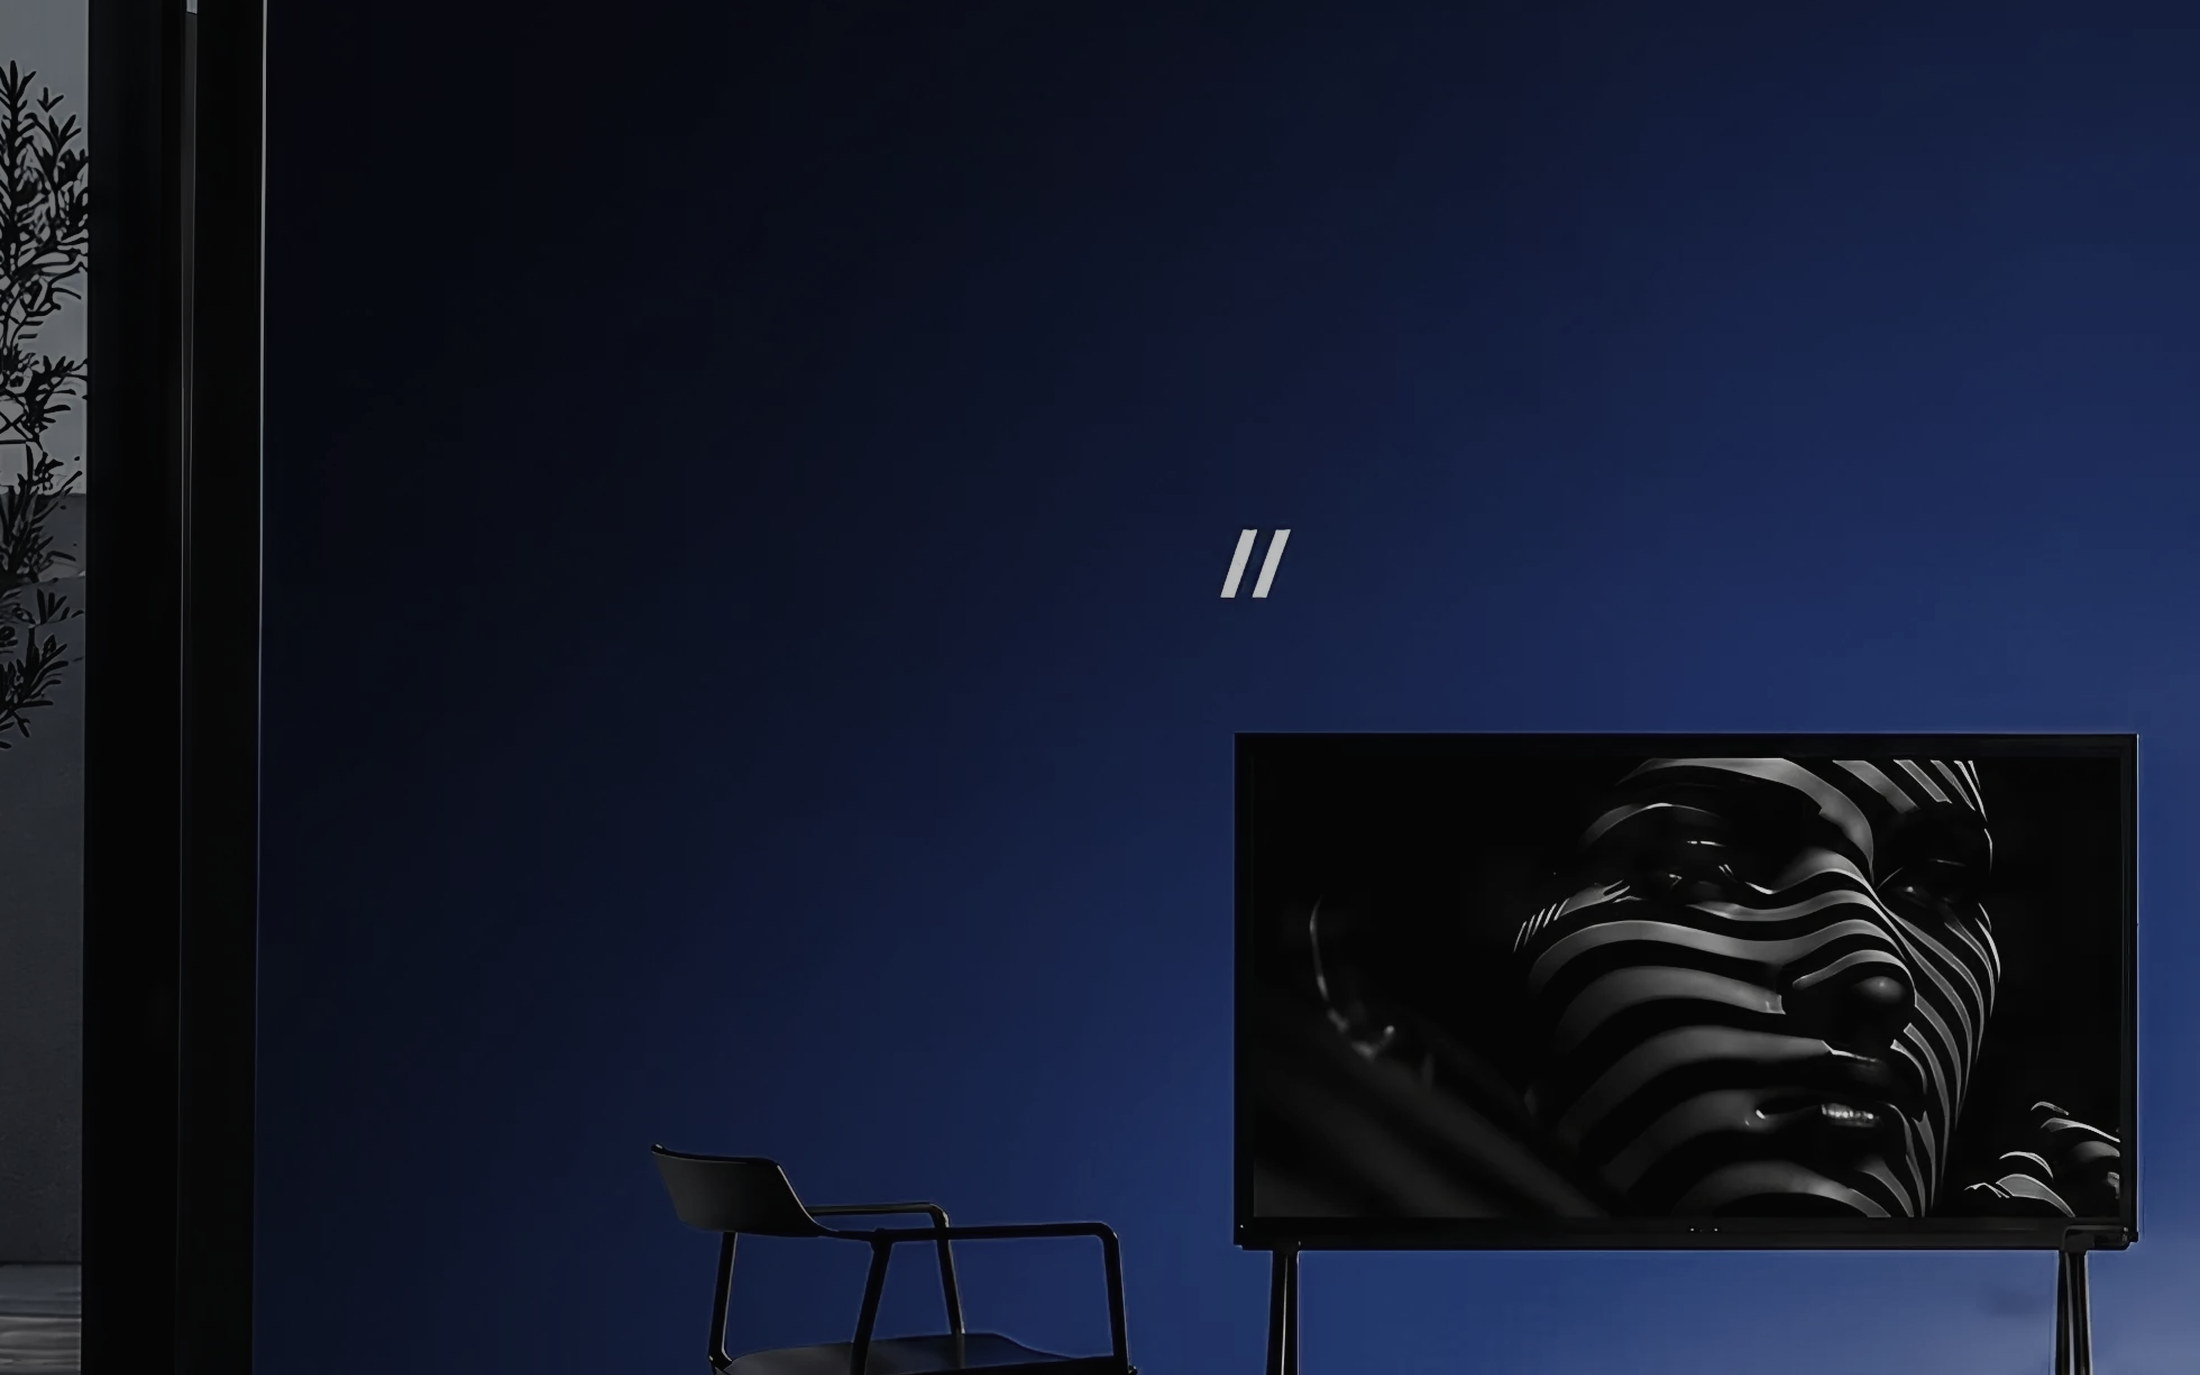
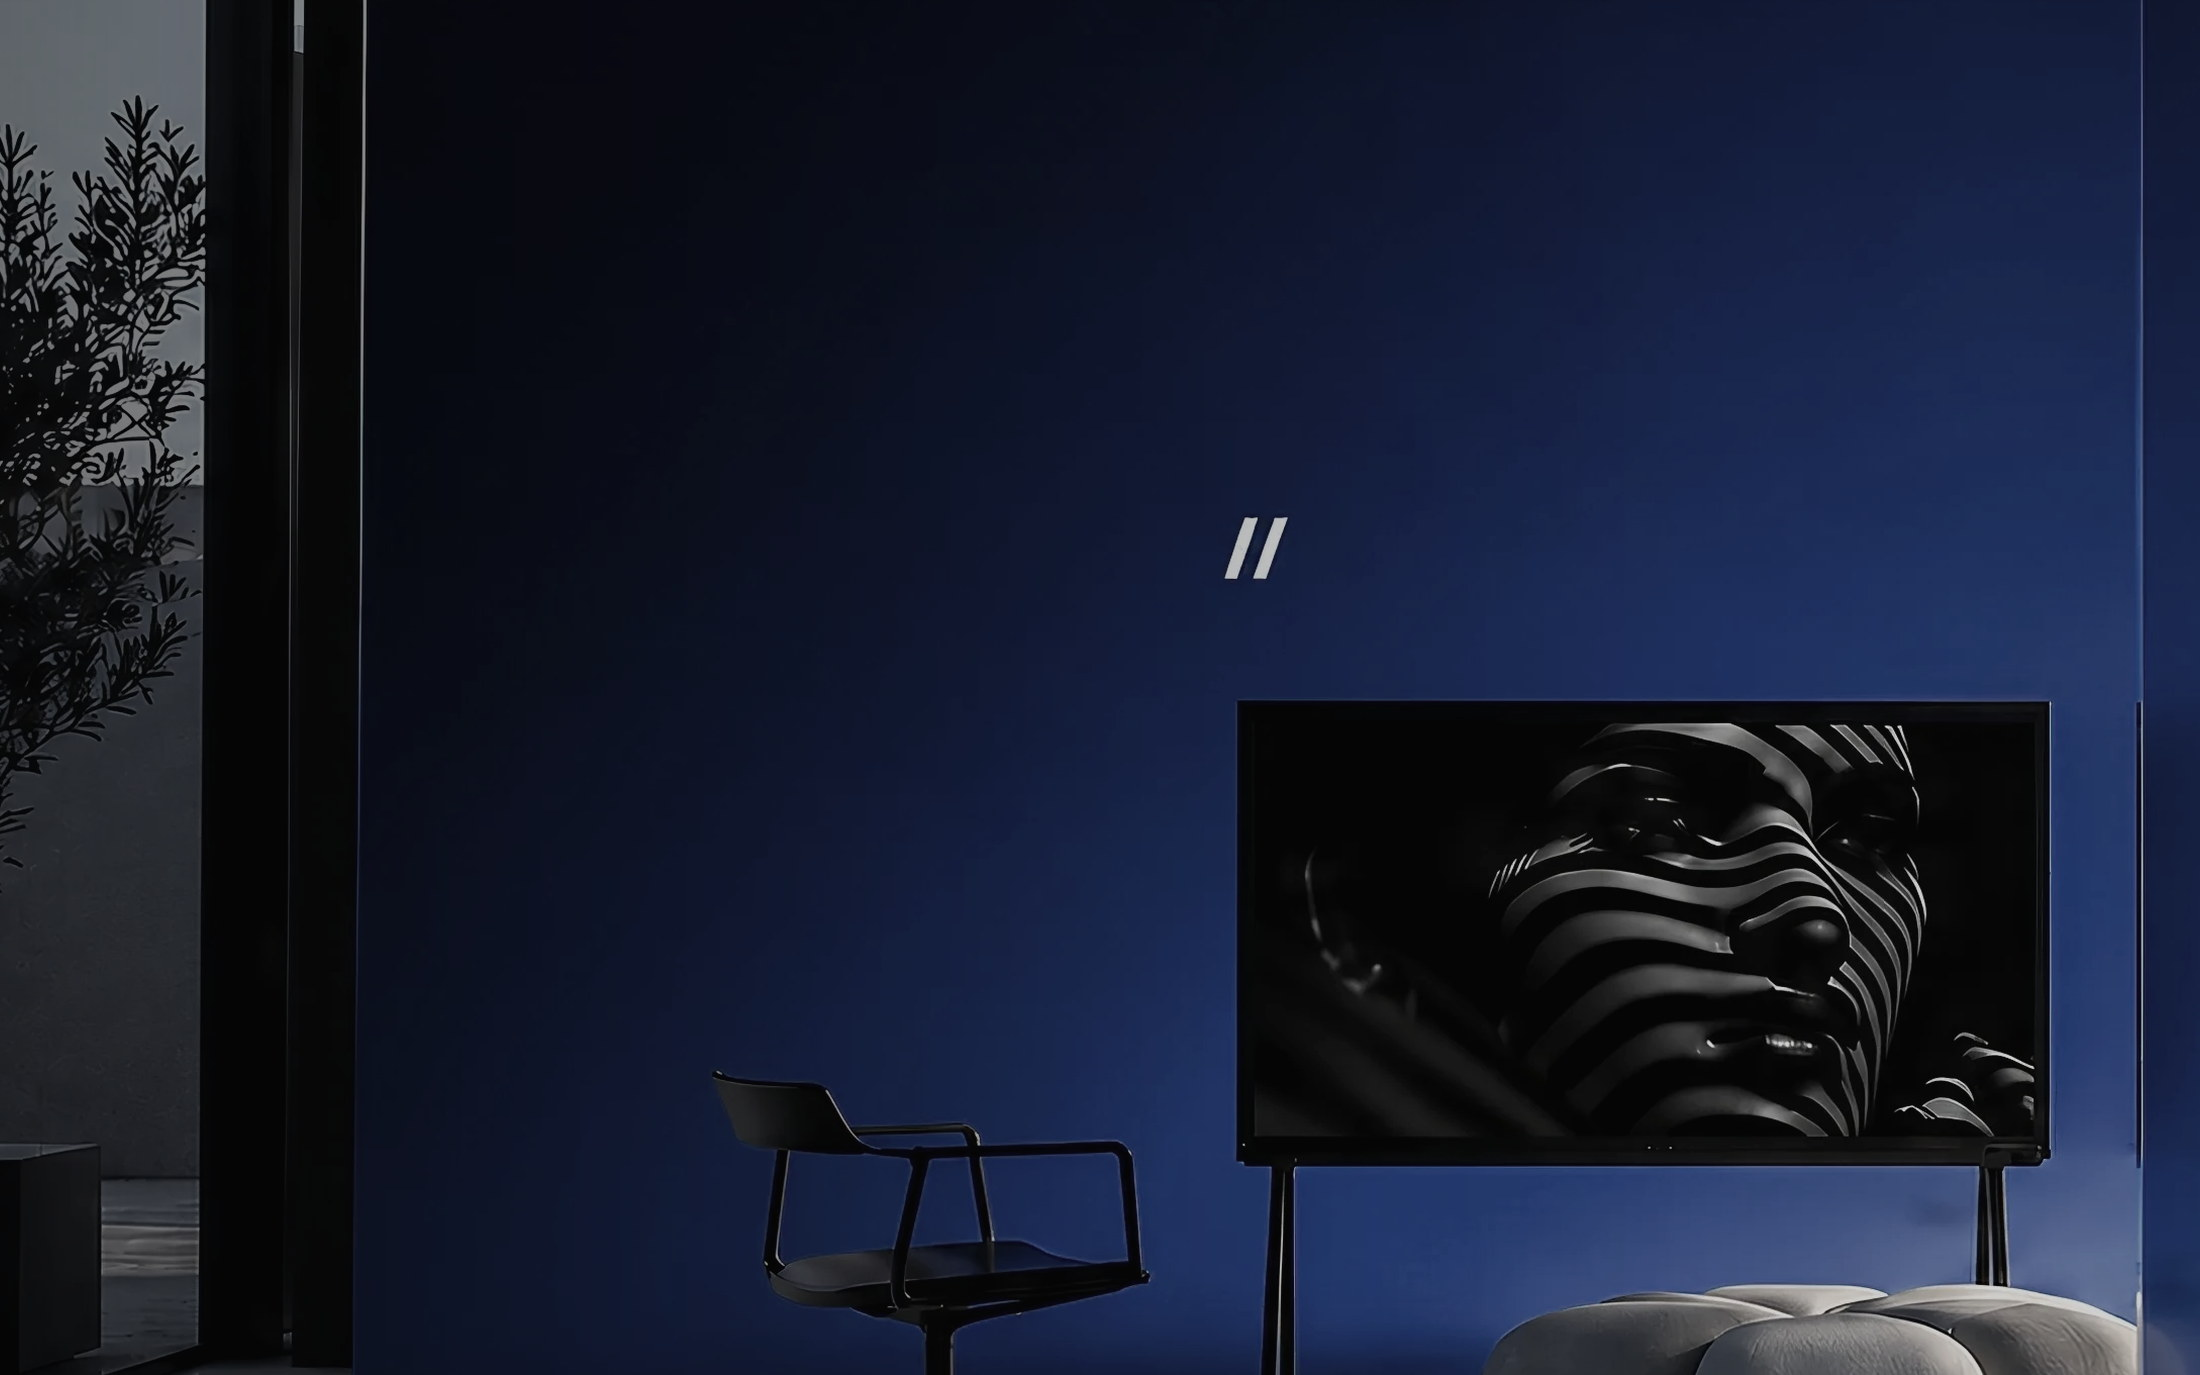
fix: the copy states status, and the 404 names itself
Four published passages explained an absence at length instead of stating a
status and stopping — the register the brief rules out. Each keeps the fact
and drops the apology:

  "It is not deployed with any organization, it has no users outside
  Recalibre... There are no results on this page because there is nothing yet
  to measure."
    -> "Status: in development. Every screen on this page runs on
       demonstration data. Performance figures will be published when the
       system has been measured in operation."

  "There is no screenshot of Contraxis on this site, and there will not be
  one until the product is further along... No interface, no data, no
  adoption figure and no deployment is shown or claimed."
    -> "Status: concept in development. The diagram above is a schematic of
       the intended architecture, not an interface. Screens will be published
       when the product reaches a working build."

  "...no client permission is owed, no agreement applies, and nothing about
  it has to be checked with a third party before it is published."
    -> "Belkofski is a company Recalibre owns outright, so the brand, the
       identity system, the digital estate and the 3D work were taken end to
       end in-house and can be published without qualification."

  "What Recalibre did for Belkofski, and when, is not recorded anywhere that
  can be verified..."
    -> "Belkofski is owned by Recalibre and is recorded as owned work rather
[…]

diff --git a/src/content/work.ts b/src/content/work.ts
@@ -133,7 +133,7 @@ export const INITIATIVES: readonly Initiative[] = [
       },
     ],
     absent:
-      'OPS is in development. It is not deployed with any organization, it has no users outside Recalibre, and every screen above carries demonstration data. There are no results on this page because there is nothing yet to measure.',
+      'Status: in development. Every screen on this page runs on demonstration data. Performance figures will be published when the system has been measured in operation.',
     cover: '/img/card-ops.jpg',
     art: 'light',
     coverAlt:
@@ -168,7 +168,7 @@ export const INITIATIVES: readonly Initiative[] = [
     ],
     shots: [],
     absent:
-      'There is no screenshot of Contraxis on this site, and there will not be one until the product is further along. The diagram above is a drawing of the concept and is labelled as one. No interface, no data, no adoption figure and no deployment is shown or claimed.',
+      'Status: concept in development. The diagram above is a schematic of the intended architecture, not an interface. Screens will be published when the product reaches a working build.',
     cover: '/img/card-contraxis.jpg',
     art: 'dark',
     coverAlt:
@@ -188,7 +188,8 @@ export const INITIATIVES: readonly Initiative[] = [
       'An eyewear house Recalibre owns and runs — brand, identity, digital and 3D taken end to end in-house.',
     problem: {
       label: 'WHY IT IS ON THIS SITE',
-      body: 'The brand and identity capability is the only one of the five with no product behind it, so it had nothing to point at. Belkofski is a company Recalibre owns, which makes it usable without waiting on anyone: no client permission is owed, no agreement applies, and nothing about it has to be checked with a third party before it is published.',
+      body:
+        'Brand and identity is a capability that has to be shown rather than described. Belkofski is a company Recalibre owns outright, so the brand, the identity system, the digital estate and the 3D work were taken end to end in-house and can be published without qualification.',
     },
     facts: [
       { value: '01', unit: 'house', label: 'Owned and run by Recalibre' },
@@ -229,7 +230,7 @@ export const INITIATIVES: readonly Initiative[] = [
       },
     ],
     absent:
-      'Belkofski is a company Recalibre owns. It is not a client, it is never counted as one, and no sales, revenue or growth figure is published — a number a firm reports about itself is not one anyone can check. What Recalibre did for Belkofski, and when, is not recorded anywhere that can be verified, so it is described as scope rather than as a result.',
+      'Belkofski is owned by Recalibre and is recorded as owned work rather than as a client engagement. The page describes scope delivered; commercial performance is not published.',
     cover: '/img/card-belkofski.jpg',
     art: 'dark',
     coverAlt:

diff --git a/src/content/legal.ts b/src/content/legal.ts
@@ -19,7 +19,7 @@
    ========================================================================= */
 
 export const PENDING_ENTITY =
-  'The registered legal entity, its registration number and its registered address are not stated on this page yet. They are added before this site is published at its public address. Until then, the contact details below are the ones that reach us.';
+  'Registered entity details are pending. The legal entity name, registration number and registered address are added to this page before the site goes live at its public address. The contact details below reach us in the meantime.';
 
 export const PRIVACY = {
   updated: 'Last reviewed 21 September 2026',

diff --git a/src/content/home.ts b/src/content/home.ts
@@ -142,7 +142,7 @@ export const WORK = {
         'An agentic AI system for contract and document intelligence: read the document, surface what matters, propose the action, keep the trail, and leave the decision with a person.',
       src: '/img/card-contraxis.jpg',
       alt: 'A Recalibre render: a black mass held inside a mirrored cube on a perforated steel bed, under the head of a gantry.',
-      caption: 'Recalibre render. Contraxis has no interface to show yet.',
+      caption: 'Recalibre render. Contraxis is at concept stage.',
       art: 'dark',
       tone: 'dev',
     },

diff --git a/src/app/not-found.tsx b/src/app/not-found.tsx
@@ -1,6 +1,15 @@
+import type { Metadata } from 'next';
 import Img from '@/lib/Img';
 import { Btn, Pill } from '@/components/ui';
 import { NAV } from '@/content/site';
+
+/* Every other route names itself in the tab; this one inherited the site
+   default, so a reader with six tabs open could not tell which one had gone
+   wrong. */
+export const metadata: Metadata = {
+  title: 'Page not found',
+  robots: { index: false, follow: true },
+};
 
 /**
  * 404 — the reference's own: one full panel carrying a photograph, and a

diff --git a/scripts/plates.py b/scripts/plates.py
@@ -172,7 +172,7 @@ def build():
     # The crop is cut at the panel's own aspect so `fit` has nothing left to
     # take off: a second crop on top of a chosen one is how the chair and the
     # seating fell out of frame and left the screen filling half the hero.
-    band = crop_rel(show, (0.085, 0.215, 0.575, 0.762))
+    band = crop_rel(show, (0.052, 0.198, 0.600, 0.803))
     hero = grade(fit(band, 2200, 1375), black=5, white=210, sat=0.40, contrast=1.06, bright=0.76)
     save(falloff(hero, 'left', strength=0.46, reach=0.78, curve=1.2), 'plate-hero-room.jpg', 88)
 
